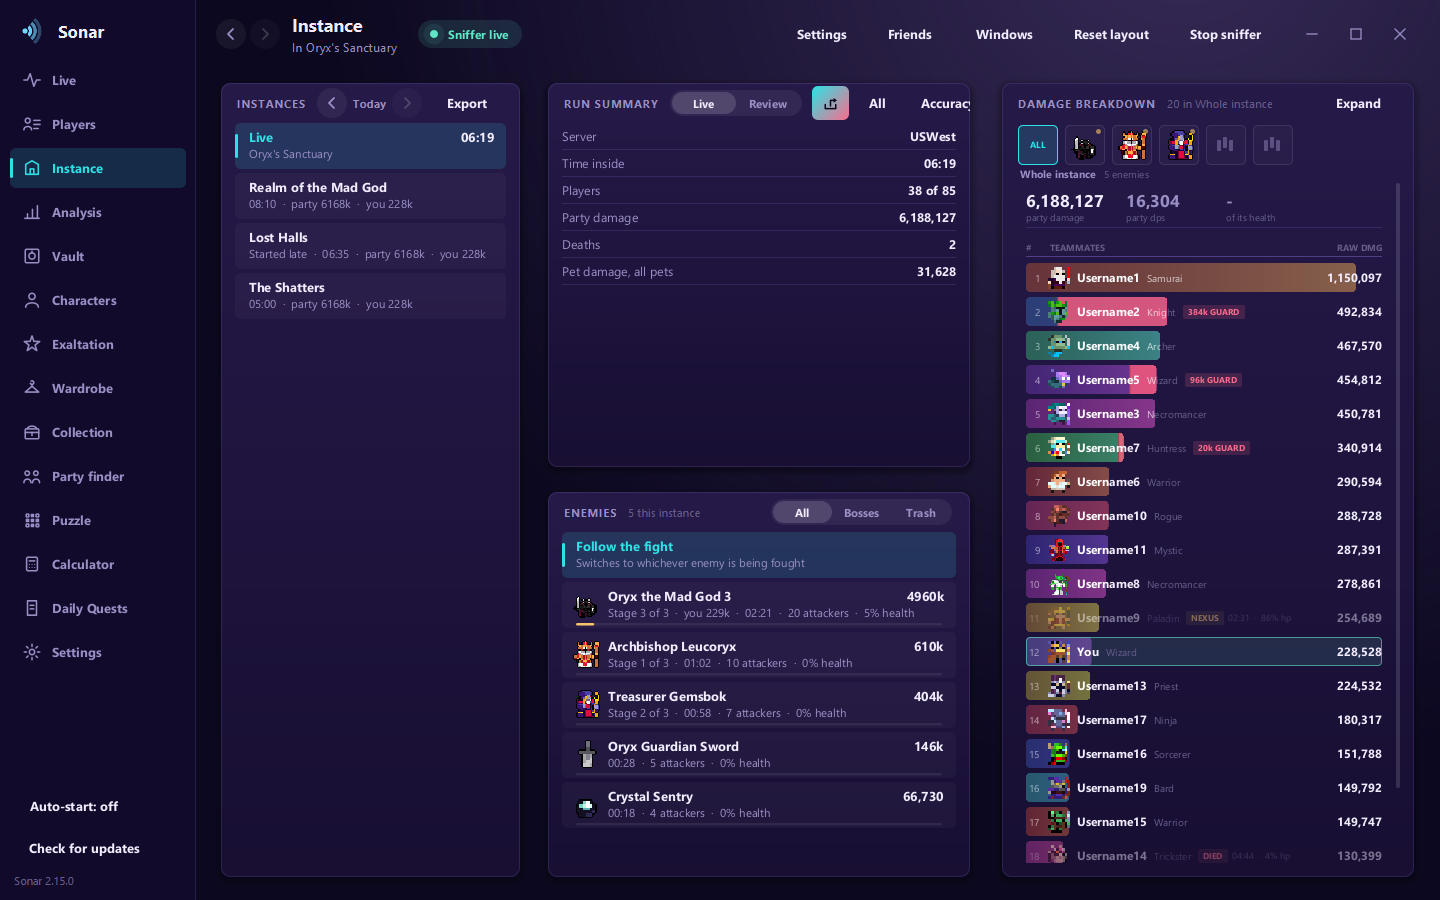
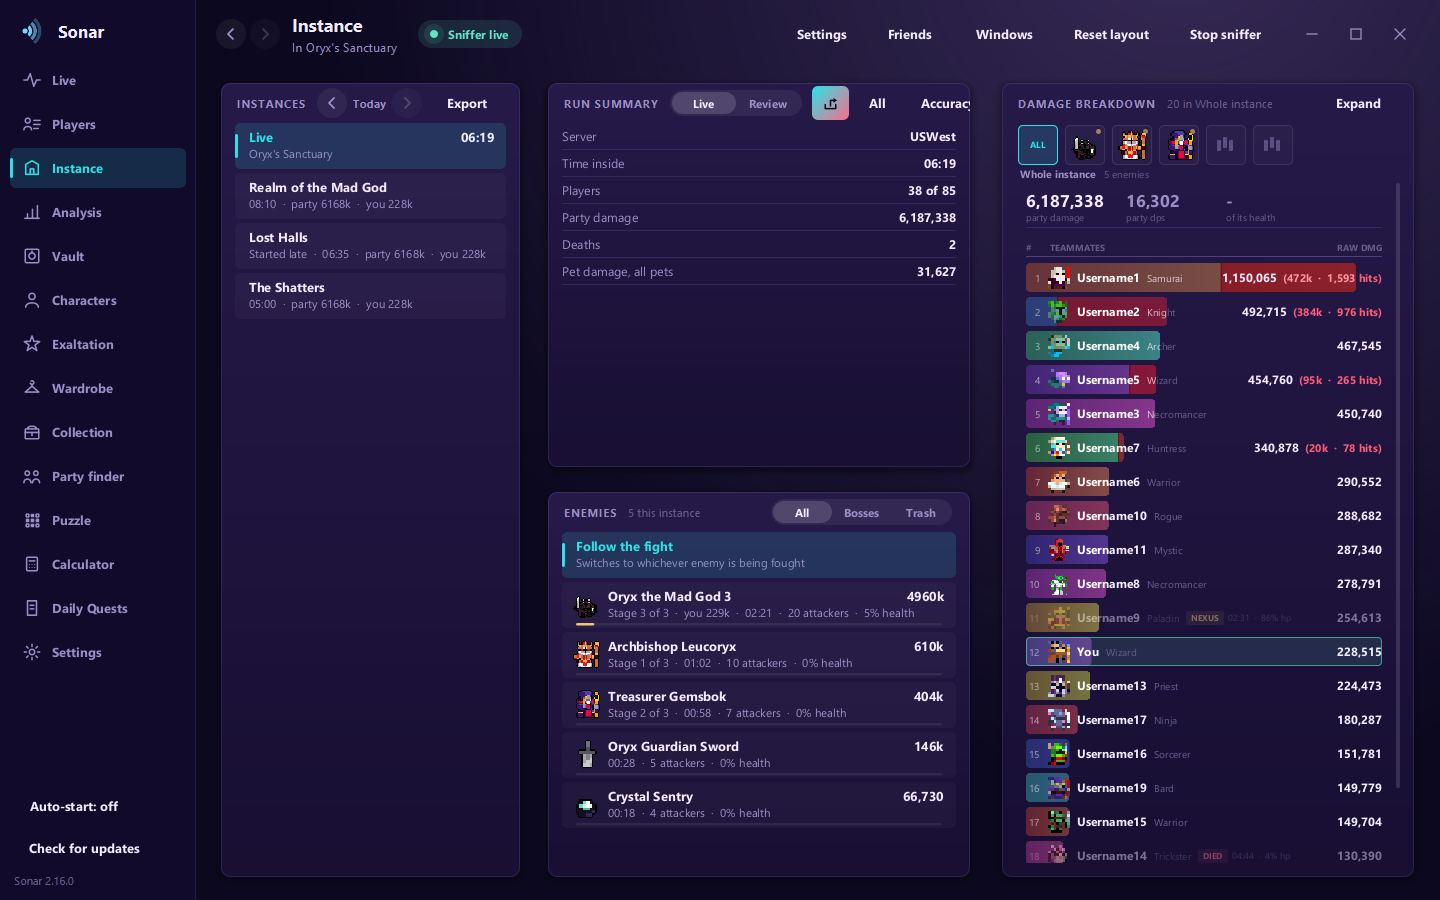
Sonar 2.16.0: the guard's red, settled
A deep oxblood instead of the bright pink 2.15.0 shipped. The red is laid
over the class colour rather than instead of it, so DANGER - already a
pink-red - came out flat pink over a Knight's blue. GUARD_GLASS and the
GUARD_INK that reads on it now live in SonarTheme, so all three views take
the same red from one place.

The figures moved to brackets after the damage, carrying the guarded hit
count as well as the total, which is the number other trackers show and the
one people quote. Widen the window and they split into INTO GUARD and
GUARD HITS columns.

The top of the board was the case this had to survive: a full bar puts the
red under the figures that sit on its right end. Those now take their ink
per zone and go to full strength on any row with a red run. On a shared
picture the name takes priority over the badge, which drops the words, then
the hit count, then itself - it had been leaving "Us..." where a name goes.

233 self-test assertions pass.

Claude-Session: https://claude.ai/code/session_018UYKXESrWTKvUcwzXH1CDy

diff --git a/src/main/java/sonar/ui/BreakdownPane.java b/src/main/java/sonar/ui/BreakdownPane.java
@@ -29,7 +29,7 @@ class BreakdownPane extends Pane {
      * them, so it is allowed in at a narrower width than the columns that are always there.
      * Where it does appear it is usually the column somebody opened the list to read.
      */
-    private static final int NEED_GUARD = 640;
+    private static final int NEED_GUARD = 640, NEED_GUARD_HITS = 730;
 
     private List<LiveModel.Row> rows = new ArrayList<>();
     /** True when this fight had a guard phase somebody shot into: see {@link #NEED_GUARD}. */
@@ -93,7 +93,7 @@ class BreakdownPane extends Pane {
 
     /** Right edge of each column, worked out once so the header and the rows agree. */
     private static final class Layout {
-        int damage, percent, dps, hits, biggest, guard, taken, guarded, blocked, gear, tracking, nameEnd;
+        int damage, percent, dps, hits, biggest, guard, guardHits, taken, guarded, blocked, gear, tracking, nameEnd;
     }
 
     private Layout layout(int width) {
@@ -118,6 +118,10 @@ class BreakdownPane extends Pane {
         if (width >= NEED_TAKEN) {
             l.taken = right;
             right -= 72;
+        }
+        if (anyGuard && width >= NEED_GUARD_HITS) {
+            l.guardHits = right;
+            right -= 66;
         }
         if (anyGuard && width >= NEED_GUARD) {
             l.guard = right;
@@ -212,6 +216,7 @@ class BreakdownPane extends Pane {
         if (l.hits > 0) right(g, "HITS", l.hits, y);
         if (l.biggest > 0) right(g, "BIGGEST", l.biggest, y);
         if (l.guard > 0) right(g, "INTO GUARD", l.guard, y);
+        if (l.guardHits > 0) right(g, "GUARD HITS", l.guardHits, y);
         if (l.taken > 0) right(g, "TAKEN", l.taken, y);
         // "absorbed" rather than "guarded", which now has to mean the boss's guard as well
         if (l.guarded > 0) right(g, "ABSORBED", l.guarded, y);
@@ -306,46 +311,16 @@ class BreakdownPane extends Pane {
     }
 
 
+
+
     /**
-     * What this player put into the boss's guard, beside their name.
+     * The red laid over the part of a bar that went into the guard.
      * <p>
-     * Only when the window is too narrow for the column to be there, which is how the
-     * breakdown usually sits - docked, a few hundred pixels wide. The figure is the reason
-     * somebody opened this list on an Oryx 3 run, so it should not need the window widened
-     * to be seen. Where the column does fit, this would be the same number twice.
-     * <p>
-     * Drawn as the nexus tag is: a dark badge carrying the mark colour, which holds against
-     * every class colour the game has rather than guessing at one ink that might.
-     *
-     * @return where the next thing on the row may start.
+     * Tinted glass rather than paint: deep enough to read as a warning on every class
+     * colour, translucent enough that the class is still visible under it. Chosen by sample
+     * against real bars - a bright red over a Knight's blue comes out pink, which is the one
+     * thing it must not look like.
      */
-    private int paintGuardTag(Graphics2D g, LiveModel.Row r, int x, int mid, Layout l, double barEnd) {
-        if (r.guardDamage <= 0 || l.guard > 0) return x;
-        String tag = SonarTheme.brief(r.guardDamage) + " GUARD";
-        g.setFont(SonarTheme.bold(8.5f));
-        int tagW = g.getFontMetrics().stringWidth(tag) + 10;
-        g.setFont(SonarTheme.bold(12f));
-        int figureW = g.getFontMetrics().stringWidth(SonarTheme.number(r.damage));
-        if (l.damage - figureW - 16 - (x + tagW) < 0) return x;
-
-        Shape clip = g.getClip();
-        int top = mid - 7;
-        for (int side = 0; side < 2; side++) {
-            boolean onBar = side == 0;
-            g.setClip(clip);
-            g.clip(onBar
-                    ? new java.awt.geom.Rectangle2D.Double(-10000, top - 4, 10000 + barEnd, 22)
-                    : new java.awt.geom.Rectangle2D.Double(barEnd, top - 4, 20000, 22));
-            g.setColor(onBar ? new Color(0x15, 0x10, 0x1a, 170) : SonarTheme.alpha(SonarTheme.CORAL, 0.16));
-            g.fill(SonarTheme.round(x, top, tagW, 14, 4));
-            g.setFont(SonarTheme.bold(8.5f));
-            g.setColor(onBar ? SonarTheme.alpha(SonarTheme.CORAL, 0.95) : SonarTheme.CORAL);
-            g.drawString(tag, x + 5, mid + 3);
-        }
-        g.setClip(clip);
-        return x + tagW + 5;
-    }
-
     private void paintRow(Graphics2D g, int width, int top, int index, LiveModel.Row r, Layout l, long best) {
         boolean hovered = hoverY >= top && hoverY < top + ROW;
         boolean open = r.id == opened;
@@ -364,7 +339,7 @@ class BreakdownPane extends Pane {
         double guardW = r.guardShare() * barW;
         if (guardW > 0.5) {
             g.setPaint(null);
-            g.setColor(SonarTheme.alpha(SonarTheme.DANGER, 0.78));
+            g.setColor(SonarTheme.GUARD_GLASS);
             g.fill(new java.awt.geom.Rectangle2D.Double(PAD + barW - guardW, top + 2, guardW, ROW - 5));
             g.setColor(new Color(0, 0, 0, 70));
             g.fill(new java.awt.geom.Rectangle2D.Double(PAD + barW - guardW, top + 2, 1.2, ROW - 5));
@@ -396,7 +371,7 @@ class BreakdownPane extends Pane {
         int clipTop = top + 2, clipH = ROW - 5;
         Color barFace = SonarTheme.mix(SonarTheme.SURFACE, SonarTheme.classColor(r.cls, true), 0.55);
         Color onBar = SonarTheme.inkOn(barFace);
-        Color onGuard = SonarTheme.inkOn(SonarTheme.mix(barFace, SonarTheme.DANGER, 0.78));
+        Color onGuard = SonarTheme.inkOn(SonarTheme.onGlass(barFace));
 
         int mid = top + ROW / 2;
         g.setFont(SonarTheme.font(10f));
@@ -424,12 +399,29 @@ class BreakdownPane extends Pane {
                     SonarTheme.alpha(onBar, 0.7), SonarTheme.alpha(onGuard, 0.7), SonarTheme.FAINT);
             after += g.getFontMetrics().stringWidth(cls) + 7;
         }
-        after = paintGuardTag(g, r, after, mid, l, barEnd);
         paintLeftTag(g, r, after, mid, l, barEnd, barFace);
 
         g.setFont(SonarTheme.bold(12f));
-        g.setColor(SonarTheme.TEXT);
-        right(g, SonarTheme.number(r.damage), l.damage, mid + 4);
+        String figure = SonarTheme.number(r.damage);
+        if (r.guardDamage > 0) {
+            // the guard's figure in brackets after the damage, where a reader already is
+            // both figures, because the hit count is what other trackers call "guarded hits"
+            // and it is the one people quote at each other afterwards
+            String inside = "  (" + SonarTheme.brief(r.guardDamage)
+                    + "  ·  " + SonarTheme.brief(r.guardHits) + " hits)";
+            g.setFont(SonarTheme.bold(11f));
+            int insideW = g.getFontMetrics().stringWidth(inside);
+            // a full bar reaches under these figures, so they take the paler red where they
+            // cross the glass - DANGER on the glass is red on red
+            SonarTheme.across(g, inside, l.damage - insideW, mid + 4, guardStart, barEnd, clipTop, clipH,
+                    SonarTheme.DANGER, SonarTheme.GUARD_INK, SonarTheme.DANGER);
+            g.setFont(SonarTheme.bold(12f));
+            g.setColor(SonarTheme.TEXT);
+            right(g, figure, l.damage - insideW, mid + 4);
+        } else {
+            g.setColor(SonarTheme.TEXT);
+            right(g, figure, l.damage, mid + 4);
+        }
 
         g.setFont(SonarTheme.font(11f));
         double seconds = Math.max(1, fightMs / 1000.0);
@@ -442,6 +434,8 @@ class BreakdownPane extends Pane {
         // so it is coloured rather than left to be found among the greys
         cell(g, l.guard, mid, r.guardDamage > 0 ? SonarTheme.number(r.guardDamage) : "-",
                 r.guardDamage > 0 ? SonarTheme.CORAL : SonarTheme.FAINT);
+        cell(g, l.guardHits, mid, r.guardHits > 0 ? SonarTheme.number(r.guardHits) : "-",
+                r.guardHits > 0 ? SonarTheme.CORAL : SonarTheme.FAINT);
         cell(g, l.taken, mid, r.damageTaken >= 0 ? SonarTheme.number(r.damageTaken) : "-",
                 r.damageTaken > 0 ? SonarTheme.CORAL : SonarTheme.FAINT);
         cell(g, l.guarded, mid, r.guarded >= 0 ? SonarTheme.number(r.guarded) : "-",

diff --git a/src/main/java/sonar/ui/ResultsImage.java b/src/main/java/sonar/ui/ResultsImage.java
@@ -423,10 +423,14 @@ final class ResultsImage {
         }
         // a fight with a guard says so on its heading, carrying what went into it, so the
         // reader knows what the coral figures down the rows are before reading one
-        long intoGuard = 0;
-        for (LiveModel.Row r : boss.rows) intoGuard += r.guardDamage;
+        long intoGuard = 0, intoGuardHits = 0;
+        for (LiveModel.Row r : boss.rows) {
+            intoGuard += r.guardDamage;
+            intoGuardHits += r.guardHits;
+        }
         if (intoGuard > 0 && !continued) {
-            drawTag(g, tagX, y + 6, SonarTheme.brief(intoGuard) + " INTO GUARD", SonarTheme.CORAL);
+            drawTag(g, tagX, y + 6, SonarTheme.brief(intoGuard) + " INTO GUARD · "
+                    + SonarTheme.brief(intoGuardHits) + " HITS", SonarTheme.CORAL);
         }
         g.setFont(SonarTheme.font(10.5f));
         g.setColor(SonarTheme.FAINT);
@@ -490,7 +494,7 @@ final class ResultsImage {
         double guardW = r.guardShare() * barW;
         if (guardW > 0.5) {
             g.setPaint(null);
-            g.setColor(SonarTheme.alpha(SonarTheme.DANGER, 0.82));
+            g.setColor(SonarTheme.GUARD_GLASS);
             g.fill(new java.awt.geom.Rectangle2D.Double(trackX + barW - guardW, y, guardW, BOSS_ROW_H));
             g.setColor(new Color(0, 0, 0, 70));
             g.fill(new java.awt.geom.Rectangle2D.Double(trackX + barW - guardW, y, 1.2, BOSS_ROW_H));
@@ -548,13 +552,31 @@ final class ResultsImage {
         // as one on a Necromancer's violet - see inkOn. Deliberately anonymous; see paintRow().
         int nameX = px + BOSS_PORTRAIT + 7;
         double barEnd = trackX + barW;
-        // what they put into the guard, right after their name, where a reader looking for it
-        // finds it beside whoever it belongs to rather than in a column of its own
-        String guard = r.guardDamage > 0 ? SonarTheme.brief(r.guardDamage) + " guard" : "";
-        int guardTextW = guard.isEmpty() ? 0 : width(g, SonarTheme.bold(9.5f), guard) + 8;
+        // What they put into the guard, right after their name, where a reader looking for it
+        // finds it beside whoever it belongs to rather than in a column of its own.
+        //
+        // The name comes first, though. Carrying both figures makes this badge wide, and on a
+        // full bar it was taking enough of the row to leave "Us..." where a name should be -
+        // which is the one thing on the line nobody can do without. So the name is given the
+        // room it needs and the badge drops the hits, then the word, then itself, until what
+        // is left fits beside it.
+        int room = gearX - nameX - 8;
         g.setFont(SonarTheme.bold(12f));
-        int maxNameW = Math.max(24, gearX - nameX - 8 - guardTextW);
-        String shown = SonarTheme.fit(r.name, g.getFontMetrics(), maxNameW);
+        String shown = SonarTheme.fit(r.name, g.getFontMetrics(), room);
+        int nameW = g.getFontMetrics().stringWidth(shown);
+        String guard = "";
+        if (r.guardDamage > 0) {
+            String[] tries = {
+                    SonarTheme.brief(r.guardDamage) + " guard · " + SonarTheme.brief(r.guardHits) + " hits",
+                    SonarTheme.brief(r.guardDamage) + " · " + SonarTheme.brief(r.guardHits),
+                    SonarTheme.brief(r.guardDamage)};
+            for (String option : tries) {
+                if (width(g, SonarTheme.bold(9.5f), option) + 16 <= room - nameW) {
+                    guard = option;
+                    break;
+                }
+            }
+        }
         double guardStart = barEnd - guardW;
         across(g, shown, nameX, y + BOSS_ROW_H / 2f + 4, guardStart, barEnd, y, dark);
         if (!guard.isEmpty()) {
@@ -571,10 +593,10 @@ final class ResultsImage {
         }
 
         g.setFont(SonarTheme.bold(11.5f));
-        across(g, dmg, dmgX, y + BOSS_ROW_H / 2f + 4, barEnd, y, light);
+        across(g, dmg, dmgX, y + BOSS_ROW_H / 2f + 4, guardStart, barEnd, y, light);
         if (!pct.isEmpty()) {
             g.setFont(SonarTheme.bold(9.5f));
-            across(g, pct, dmgX - pctW + 3, y + BOSS_ROW_H / 2f + 3.5f, barEnd, y, light, 0.75);
+            across(g, pct, dmgX - pctW + 3, y + BOSS_ROW_H / 2f + 3.5f, guardStart, barEnd, y, light, 0.75);
         }
     }
 
@@ -619,7 +641,7 @@ final class ResultsImage {
         int top = rowY - 2, height = BOSS_ROW_H + 4;
         double[] from = {-10000, guardStart, barEnd};
         double[] to = {guardStart, barEnd, 20000};
-        Color[] behind = {bar, SonarTheme.mix(bar, SonarTheme.DANGER, 0.82), SonarTheme.SURFACE};
+        Color[] behind = {bar, SonarTheme.onGlass(bar), SonarTheme.SURFACE};
         Shape old = g.getClip();
         for (int zone = 0; zone < 3; zone++) {
             if (to[zone] <= from[zone]) continue;

diff --git a/src/main/java/sonar/ui/DamagePane.java b/src/main/java/sonar/ui/DamagePane.java
@@ -254,7 +254,7 @@ class DamagePane extends Pane {
             if (b.row.guardDamage > 0 && b.row.damage > 0) {
                 double guardWidth = barLength * b.row.guardShare();
                 g.clip(bar);
-                g.setColor(SonarTheme.alpha(SonarTheme.DANGER, 0.82));
+                g.setColor(SonarTheme.GUARD_GLASS);
                 g.fill(new java.awt.geom.Rectangle2D.Double(barEnd - guardWidth, y, guardWidth, ROW));
                 g.setColor(new Color(0, 0, 0, 70));
                 g.fill(new java.awt.geom.Rectangle2D.Double(barEnd - guardWidth, y, 1.2, ROW));
@@ -278,10 +278,15 @@ class DamagePane extends Pane {
 
             float base = (float) (y + (ROW - nameFm.getHeight()) / 2.0 + nameFm.getAscent());
             int right = width - 12;
+            // the figures live on the bar's right end, which is exactly where the guard's red
+            // run is, so on a row that has one they go to full strength rather than the quiet
+            // greys that read fine on a class colour and wash out on a deep red
+            boolean onGlass = b.row.guardDamage > 0;
             if (showShare) {
                 String share = total <= 0 ? "" : String.format("%.1f%%", b.row.damage * 100.0 / total);
                 g.setFont(small);
-                shadowText(g, share, right - smallFm.stringWidth(share), base, new Color(255, 255, 255, 200));
+                shadowText(g, share, right - smallFm.stringWidth(share), base,
+                        new Color(255, 255, 255, onGlass ? 255 : 200));
                 right -= 52;
             }
             String dps = SonarTheme.number(Math.round(b.shown.get() / seconds)) + " dps";
@@ -293,7 +298,8 @@ class DamagePane extends Pane {
             right -= numFm.stringWidth(main) + 14;
             if (showTotal) {
                 g.setFont(small);
-                shadowText(g, other, right - smallFm.stringWidth(other), base, new Color(255, 255, 255, 190));
+                shadowText(g, other, right - smallFm.stringWidth(other), base,
+                        new Color(255, 255, 255, onGlass ? 250 : 190));
                 right -= totals ? 70 : 58;
             }
 

diff --git a/src/main/java/sonar/ui/SonarTheme.java b/src/main/java/sonar/ui/SonarTheme.java
@@ -206,6 +206,16 @@ public final class SonarTheme {
     public static final Color GOLD = new Color(0xf5c56b);
     public static final Color VIOLET = new Color(0xa78bfa);
     public static final Color DANGER = new Color(0xff5c7a);
+    /**
+     * The red laid over the part of a damage bar that went into a boss's guard.
+     * <p>
+     * Tinted glass rather than paint: deep enough to read as a warning on every class colour,
+     * translucent enough that the class is still visible under it. Chosen by sample against
+     * real bars. DANGER was tried first and is wrong for this - it is already a bright
+     * pink-red, and over a Knight's blue at this strength it lands on a flat pink, which
+     * reads as a highlight rather than as a stain.
+     */
+    public static final Color GUARD_GLASS = new Color(0x8c, 0x0f, 0x1f, 195);
     /** The blue that marks an exaltation bonus, wherever one is shown apart from a base stat. */
     public static final Color EXALT = new Color(0x6aa8ff);
     /** The pair the Neon ground is built around: the figure, and the thing that names it. */
@@ -428,6 +438,19 @@ public final class SonarTheme {
             g.drawString(text, x, y);
         }
         g.setClip(old);
+    }
+
+    /**
+     * The red used for the guard's own figures where they cross the glass. A lighter shade of
+     * {@link #DANGER} rather than a different colour: DANGER is the right weight on the panel
+     * and disappears on the glass, which is the same family at much the same darkness, but a
+     * figure that changed colour entirely halfway along would read as two things.
+     */
+    public static final Color GUARD_INK = new Color(0xff, 0x93, 0xa6);
+
+    /** What a surface becomes under {@link #GUARD_GLASS}, for choosing ink to sit on it. */
+    public static Color onGlass(Color surface) {
+        return mix(surface, GUARD_GLASS, GUARD_GLASS.getAlpha() / 255.0);
     }
 
     public static Color mix(Color a, Color b, double t) {

diff --git a/src/main/java/sonar/ui/LiveDemo.java b/src/main/java/sonar/ui/LiveDemo.java
@@ -467,7 +467,10 @@ final class LiveDemo {
         // caught a little of it, which is roughly the spread a real run produces - and the
         // first of them is the case the red run has to survive, since it reaches under their
         // name and their class
-        int[] blasters = {1, 4, 6}, blastShare = {78, 21, 6};
+        // the top of the board included on purpose: their bar is full width, so the red run
+        // lands under the figures that sit on the bar's right end - which is the case that
+        // has to be looked at rather than assumed
+        int[] blasters = {0, 1, 4, 6}, blastShare = {41, 78, 21, 6};
         for (int i = 0; guardPhase && i < blasters.length; i++) {
             if (p != blasters[i]) continue;
             r.guardDamage = damage * blastShare[i] / 100;

diff --git a/src/main/java/sonar/ui/Updater.java b/src/main/java/sonar/ui/Updater.java
@@ -34,7 +34,7 @@ import java.util.zip.ZipInputStream;
 final class Updater {
 
     /** Version of this build. Raise it for each release; tools/make-release.ps1 reads it for the zip name. */
-    static final String CURRENT = "2.15.0";
+    static final String CURRENT = "2.16.0";
 
     private static final String REPOSITORY = "https://github.com/JustAutomate-AI/sonar-rotmg";
     private static final String LATEST = REPOSITORY + "/releases/latest";

diff --git a/src/main/java/sonar/version/Version.java b/src/main/java/sonar/version/Version.java
@@ -8,7 +8,7 @@ public class Version {
      * The app's version, the one shown in the left rail and used for release names.
      * Comes from Updater.CURRENT, which is where it is raised.
      */
-    public static final String VERSION = "2.15.0";
+    public static final String VERSION = "2.16.0";
 
     /**
      * The asset-extraction format, which is NOT the app's version and does not move

diff --git a/CHANGELOG.md b/CHANGELOG.md
@@ -2,6 +2,15 @@
 
 Every release of Sonar, newest first. The version number is also shown at the bottom of the app's left rail.
 
+## 2.16.0
+
+**The guard's red, settled**
+- The red over a bar is now a **deep oxblood** rather than the bright pink 2.15.0 shipped. The red is laid *over* the class colour, so what you see is the two mixed - and Sonar's existing danger colour is already a pink-red, which over a Knight's blue came out flat pink. It reads as a stain now rather than a highlight.
+- The figures moved. Instead of a badge beside the name, the damage into the guard and the **guarded hit count** sit in brackets after the damage, in red: *492,834  (384k · 977 hits)*. They stay in one column that way, and the name strip is left to the nexus tag.
+- Widen the window and they become columns of their own, **INTO GUARD** and **GUARD HITS**.
+- **The top of the board is the case this had to survive.** Their bar is full width, so the red run lands under the figures that sit on the bar's right end. Those figures now take the ink that suits the red where they cross it, and go to full strength on a row that has a red run at all - the quiet greys that read fine on a class colour washed out on a deep red.
+- On a shared picture the name comes first: the badge drops the words, then the hit count, then itself, rather than squeezing a name down to *Us...*.
+
 ## 2.15.0
 
 **The guard, on the bar**
